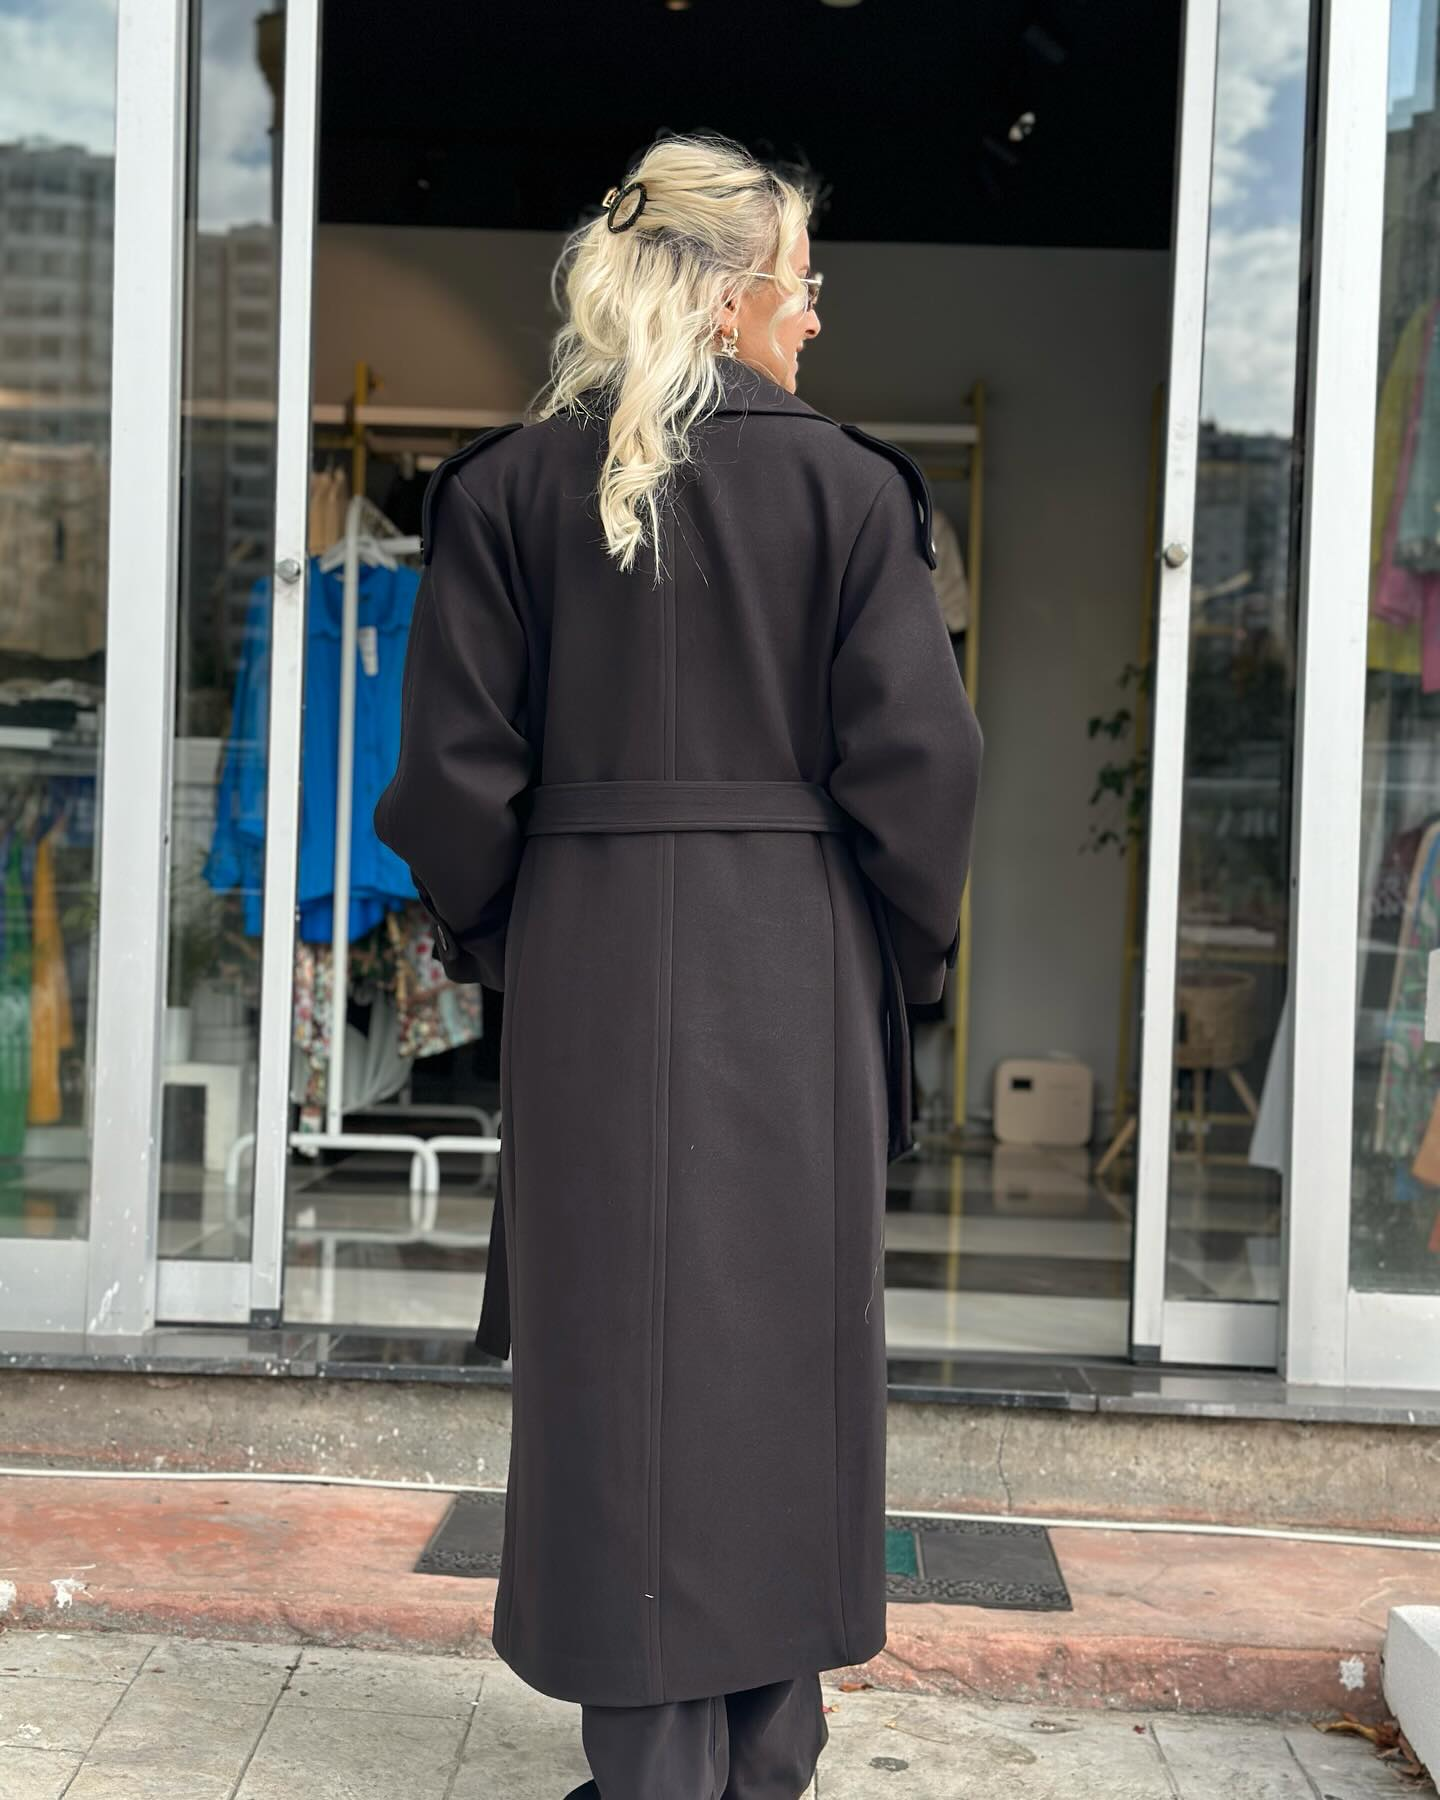
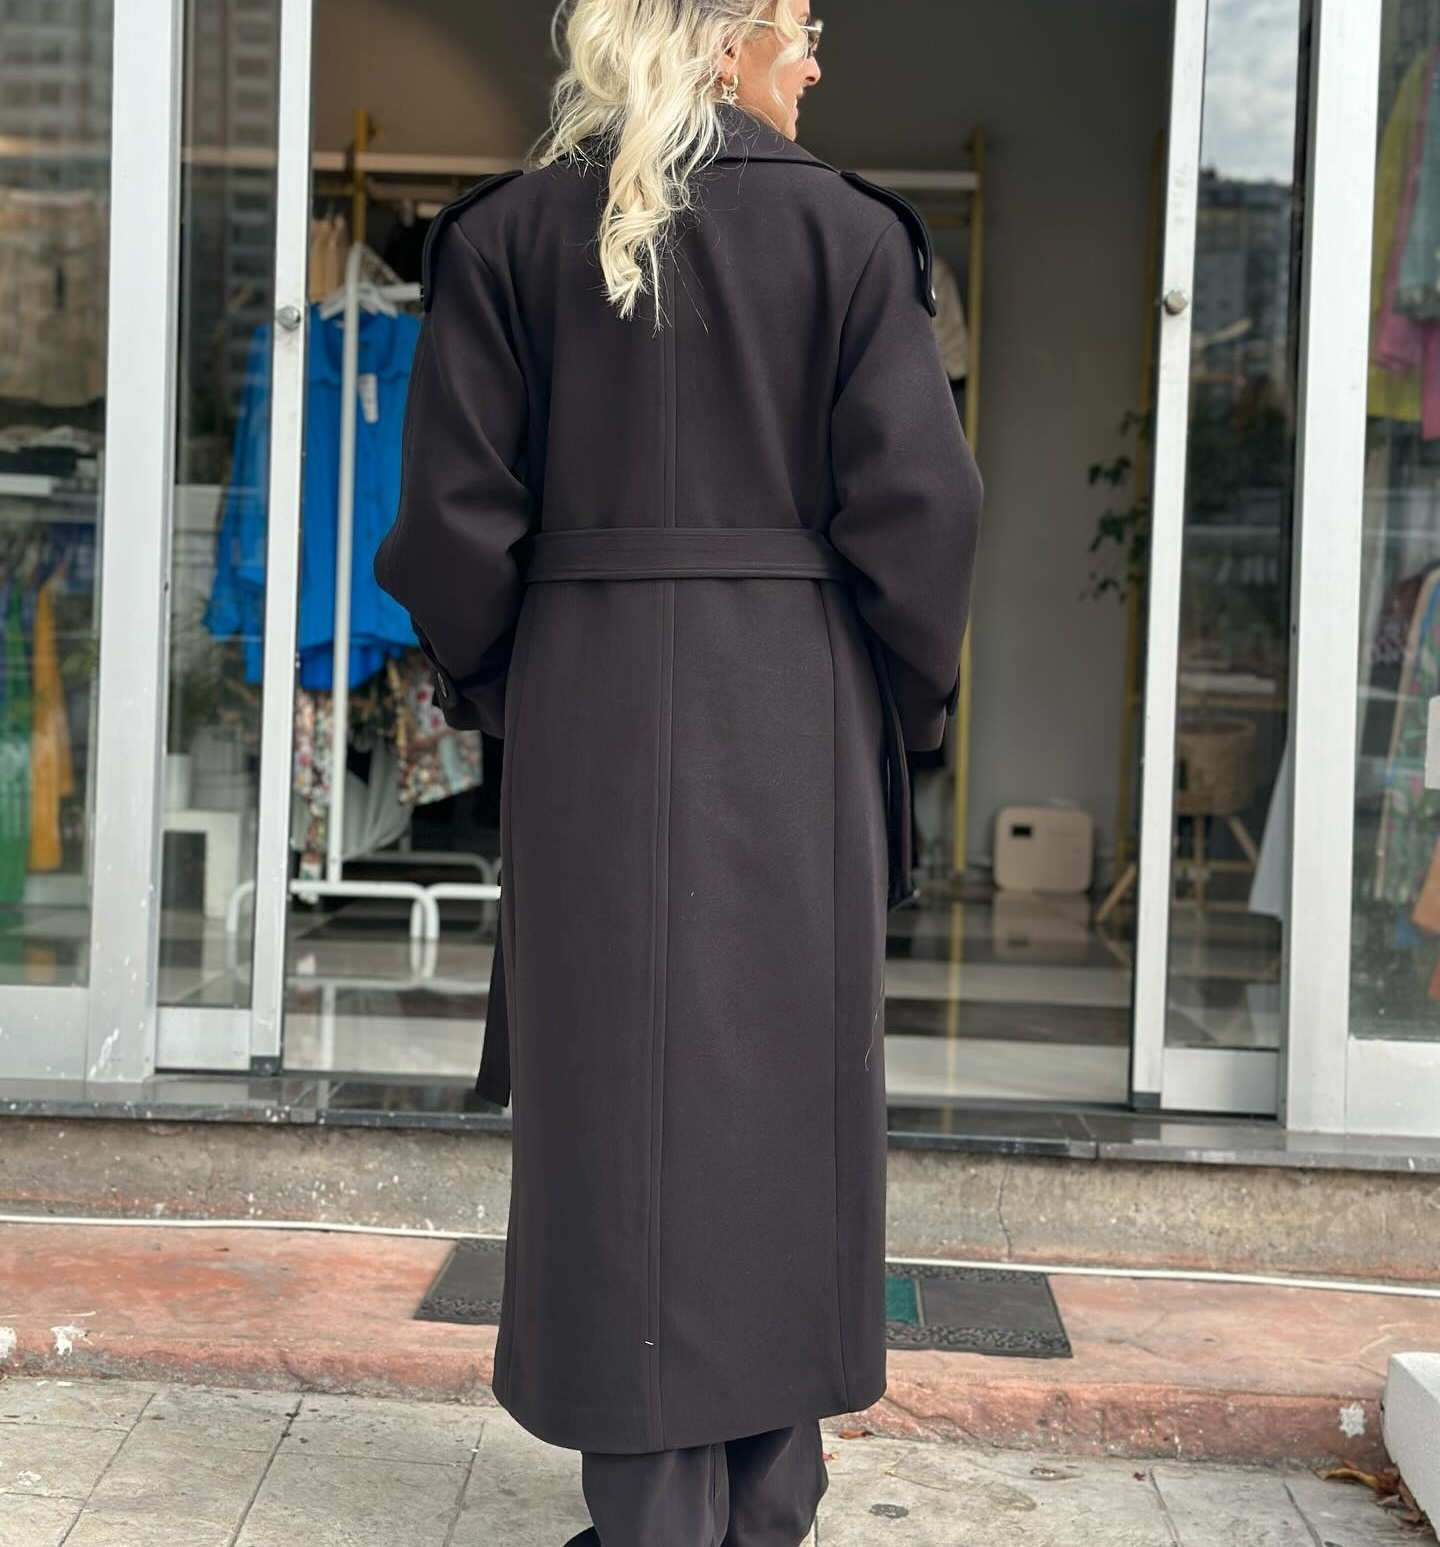
fix: urun gorsellerindeki siyah bosluklari temizle, urun kartlari arasindaki bosluklari artir, trendyol baglantilarina isilti ekle

diff --git a/public/css/style.css b/public/css/style.css
@@ -792,26 +792,31 @@ img {
 .products-grid {
   display: grid;
   grid-template-columns: repeat(2, 1fr);
-  gap: 24px 16px;
+  gap: 36px 20px;
 }
 
 @media (min-width: 768px) {
   .products-grid {
     grid-template-columns: repeat(3, 1fr);
-    gap: 32px 20px;
+    gap: 46px 28px;
   }
 }
 
 @media (min-width: 1024px) {
   .products-grid {
     grid-template-columns: repeat(4, 1fr);
-    gap: 36px 24px;
+    gap: 52px 32px;
   }
 }
 
 .product-card {
   display: flex;
   flex-direction: column;
+  transition: transform var(--transition-fast);
+}
+
+.product-card:hover {
+  transform: translateY(-2px);
 }
 
 .product-media {
@@ -821,6 +826,12 @@ img {
   border-radius: var(--radius-custom);
   overflow: hidden;
   cursor: pointer;
+  box-shadow: 0 4px 16px rgba(0, 0, 0, 0.04);
+  transition: box-shadow 0.3s ease;
+}
+
+.product-media:hover {
+  box-shadow: 0 8px 24px rgba(184, 148, 77, 0.12);
 }
 
 .product-media img {
@@ -848,52 +859,55 @@ img {
   border-radius: 2px;
 }
 
-/* Product info below image: clean typography, no borders or boxes */
+/* Product info below image: spacious, luxury spacing for color, sizes and text */
 .product-info {
-  padding-top: 12px;
+  padding-top: 16px;
+  padding-bottom: 6px;
   display: flex;
   flex-direction: column;
-  gap: 6px;
+  gap: 10px;
 }
 
 .product-meta-row {
   display: flex;
   align-items: center;
   justify-content: space-between;
-  gap: 8px;
-  min-height: 18px;
+  gap: 12px;
+  min-height: 24px;
+  margin-bottom: 2px;
 }
 
 /* Interactive Color Dots */
 .color-dots {
   display: flex;
   align-items: center;
-  gap: 6px;
+  gap: 8px;
 }
 
 .color-dot {
-  width: 14px;
-  height: 14px;
+  width: 16px;
+  height: 16px;
   border-radius: 50%;
-  border: 1px solid rgba(0, 0, 0, 0.2);
+  border: 1px solid rgba(0, 0, 0, 0.22);
   cursor: pointer;
   padding: 0;
   transition: transform 0.2s ease, box-shadow 0.2s ease;
 }
 
 .color-dot:hover {
-  transform: scale(1.15);
+  transform: scale(1.2);
 }
 
 .color-dot.active {
   box-shadow: 0 0 0 2px var(--parla-white), 0 0 0 3.5px var(--parla-gold-dark);
 }
 
-/* Plain text sizes on card — NOT boxed buttons! */
+/* Plain text sizes on card */
 .product-sizes-text {
-  font-size: 11px;
+  font-size: 11.5px;
   color: var(--parla-muted);
-  letter-spacing: 0.04em;
+  letter-spacing: 0.05em;
+  font-weight: 400;
 }
 
 .product-sizes-text span.out {
@@ -902,11 +916,12 @@ img {
 }
 
 .product-title {
-  font-size: 13.5px;
-  font-weight: 400;
+  font-size: 14px;
+  font-weight: 450;
   color: var(--parla-text);
-  line-height: 1.4;
+  line-height: 1.45;
   cursor: pointer;
+  margin-top: 2px;
   transition: color var(--transition-fast);
 }
 
@@ -916,10 +931,12 @@ img {
 
 .product-bottom-row {
   display: flex;
-  align-items: baseline;
+  align-items: center;
   justify-content: space-between;
-  gap: 8px;
-  margin-top: 2px;
+  gap: 12px;
+  margin-top: 6px;
+  padding-top: 8px;
+  border-top: 1px solid rgba(220, 215, 205, 0.55);
 }
 
 .product-price-wrap {
@@ -929,7 +946,7 @@ img {
 }
 
 .product-price {
-  font-size: 14px;
+  font-size: 14.5px;
   font-weight: 600;
   color: var(--parla-black);
 }
@@ -940,18 +957,57 @@ img {
   text-decoration: line-through;
 }
 
-/* Subtle underlined link for Trendyol on card — NOT a box! */
+/* Luxury shimmering & sparkling Trendyol link */
 .product-trendyol-link {
-  font-size: 11.5px;
-  font-weight: 500;
+  position: relative;
+  display: inline-flex;
+  align-items: center;
+  gap: 5px;
+  font-size: 12px;
+  font-weight: 600;
   color: var(--parla-gold-dark);
-  text-decoration: underline;
-  text-underline-offset: 4px;
+  text-decoration: none;
+  background: linear-gradient(110deg, var(--parla-gold-dark) 0%, #ffde6b 25%, #f27a1a 50%, #fff0b3 75%, var(--parla-gold-dark) 100%);
+  background-size: 220% auto;
+  -webkit-background-clip: text;
+  -webkit-text-fill-color: transparent;
+  animation: trendyol-shimmer-sweep 3.2s linear infinite;
   white-space: nowrap;
+  padding: 2px 4px;
+  transition: transform 0.25s ease, filter 0.25s ease;
+}
+
+.product-trendyol-link .sparkle-icon {
+  font-size: 10px;
+  color: var(--parla-gold);
+  -webkit-text-fill-color: var(--parla-gold);
+  display: inline-block;
+  animation: sparkle-pulse 1.8s ease-in-out infinite;
+}
+
+.product-trendyol-link::after {
+  content: '';
+  position: absolute;
+  left: 4px;
+  right: 4px;
+  bottom: 0px;
+  height: 1px;
+  background: linear-gradient(90deg, transparent, var(--parla-gold), var(--trendyol-orange), transparent);
+  transition: transform 0.3s ease;
 }
 
 .product-trendyol-link:hover {
-  color: var(--trendyol-orange);
+  transform: translateY(-1px);
+  filter: drop-shadow(0 2px 6px rgba(242, 122, 26, 0.4));
+}
+
+@keyframes trendyol-shimmer-sweep {
+  0% {
+    background-position: 220% center;
+  }
+  100% {
+    background-position: -220% center;
+  }
 }
 
 /* ==========================================
@@ -1333,12 +1389,14 @@ img {
 
 /* Single Primary Conversion CTA to Trendyol */
 .trendyol-primary-cta {
+  position: relative;
+  overflow: hidden;
   display: flex;
   align-items: center;
   justify-content: center;
   gap: 10px;
   width: 100%;
-  padding: 15px 24px;
+  padding: 16px 24px;
   background-color: var(--parla-black);
   color: var(--parla-gold-light);
   border: 1px solid var(--parla-gold);
@@ -1348,12 +1406,38 @@ img {
   letter-spacing: 0.08em;
   text-transform: uppercase;
   transition: all var(--transition-fast);
-  margin-top: 6px;
+  margin-top: 10px;
+  box-shadow: 0 4px 18px rgba(184, 148, 77, 0.2);
+}
+
+.trendyol-primary-cta::before {
+  content: '';
+  position: absolute;
+  top: 0;
+  left: -130%;
+  width: 70%;
+  height: 100%;
+  background: linear-gradient(90deg, transparent, rgba(255, 255, 255, 0.28), rgba(242, 222, 107, 0.45), transparent);
+  transform: skewX(-25deg);
+  animation: trendyol-btn-sweep 3.2s infinite;
+}
+
+@keyframes trendyol-btn-sweep {
+  0% { left: -130%; }
+  35%, 100% { left: 160%; }
+}
+
+.trendyol-primary-cta .sparkle-icon {
+  font-size: 13px;
+  color: var(--parla-gold);
+  animation: sparkle-pulse 1.8s ease-in-out infinite;
 }
 
 .trendyol-primary-cta:hover {
   background-color: var(--parla-gold);
   color: var(--parla-black);
+  box-shadow: 0 6px 24px rgba(184, 148, 77, 0.45);
+  transform: translateY(-1px);
 }
 
 .modal-secondary-links {

diff --git a/public/js/app.js b/public/js/app.js
@@ -192,8 +192,8 @@
               <span class="product-price">${formatPrice(product.price)}</span>
               ${product.oldPrice ? `<span class="product-old-price">${formatPrice(product.oldPrice)}</span>` : ''}
             </div>
-            <a href="${targetTrendyolUrl}" target="_blank" rel="noopener noreferrer" class="product-trendyol-link">
-              Trendyol'da Gör ↗
+            <a href="${targetTrendyolUrl}" target="_blank" rel="noopener noreferrer" class="product-trendyol-link" title="Trendyol'da İncele">
+              <span class="sparkle-icon">✦</span> Trendyol'da Gör ↗
             </a>
           </div>
         </div>
@@ -449,6 +449,7 @@
 
           <!-- Single Intentional Conversion Action: Trendyol Redirect -->
           <a href="${trendyolTarget}" target="_blank" rel="noopener noreferrer" class="trendyol-primary-cta">
+            <span class="sparkle-icon">✨</span>
             <span>Trendyol'da İncele ve Sipariş Ver</span>
             <svg width="16" height="16" viewBox="0 0 24 24" fill="none" stroke="currentColor" stroke-width="2">
               <path d="M7 17L17 7M7 7h10v10"/>
